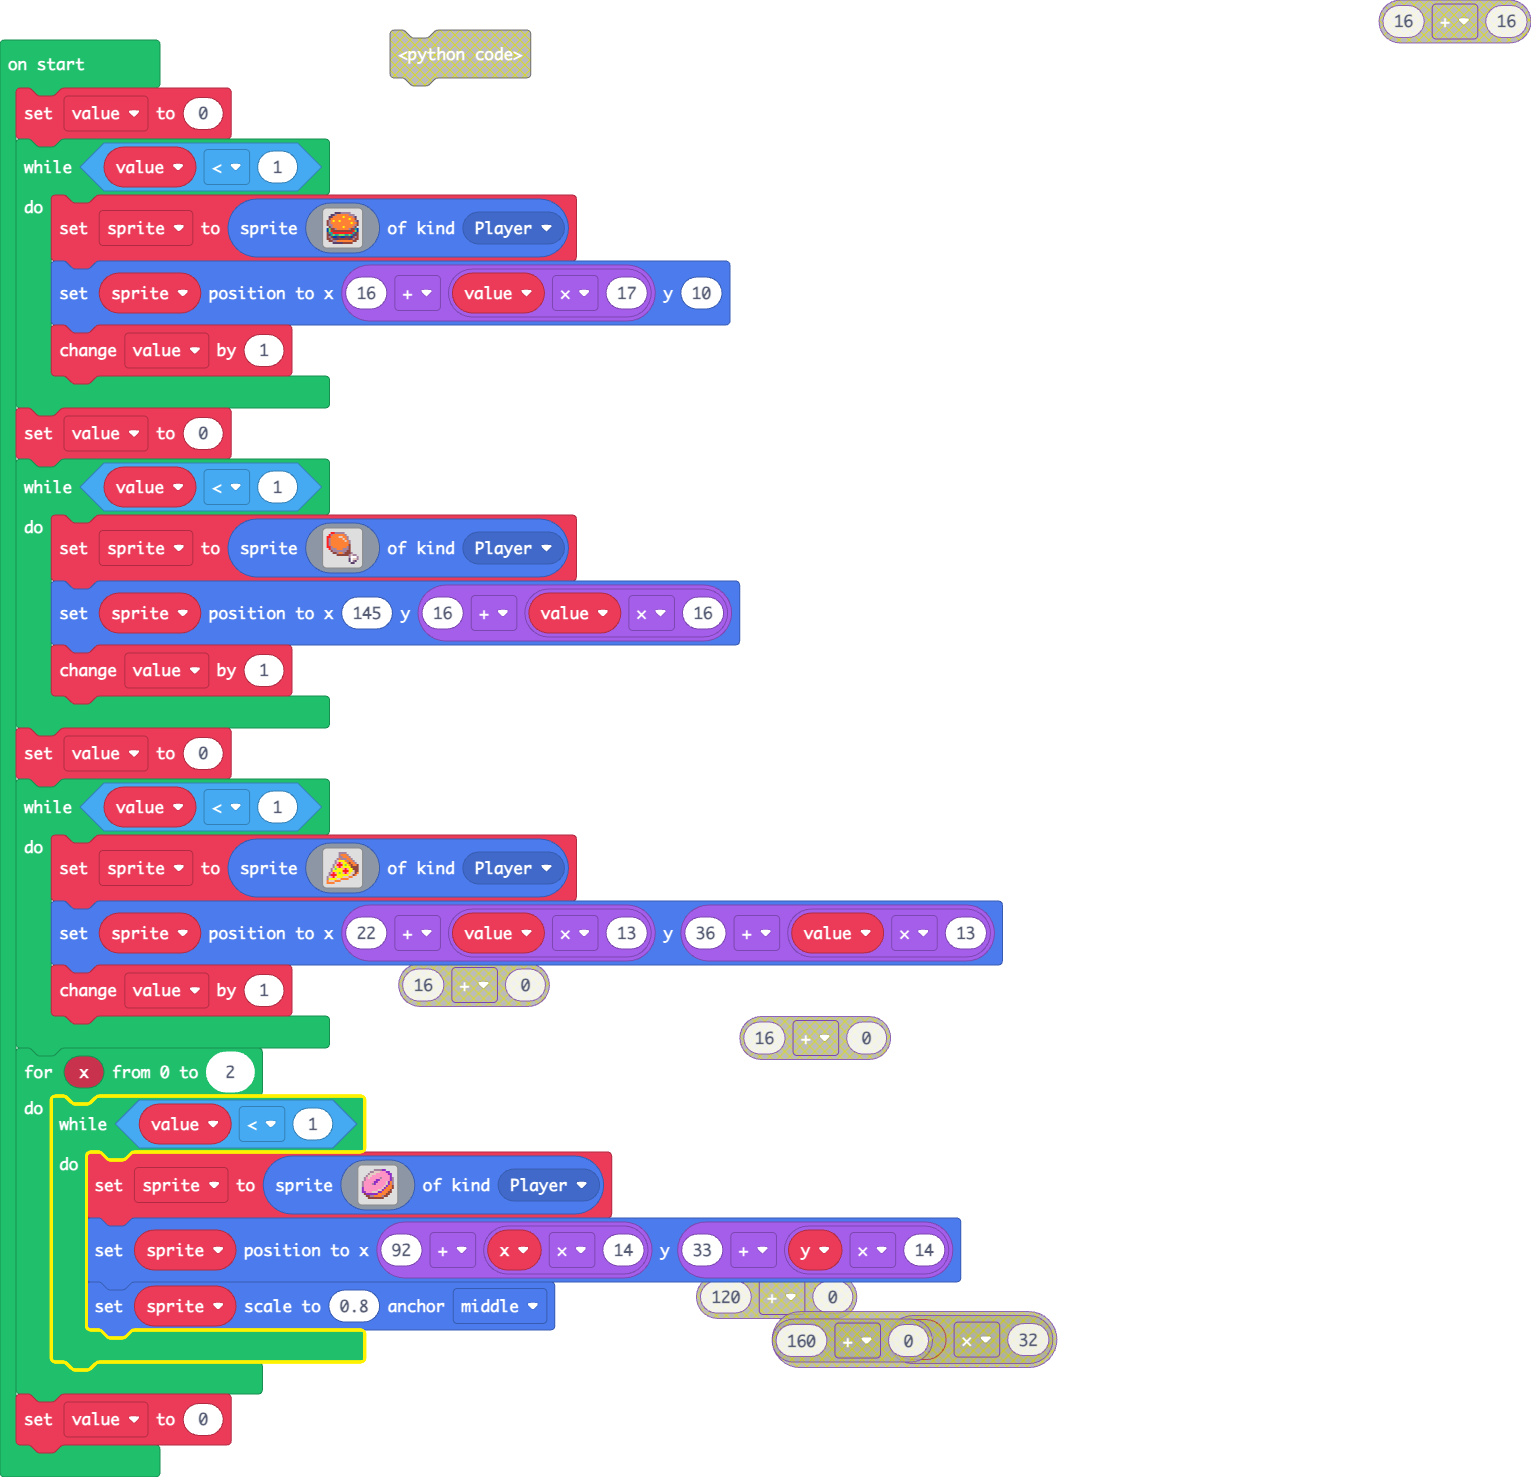
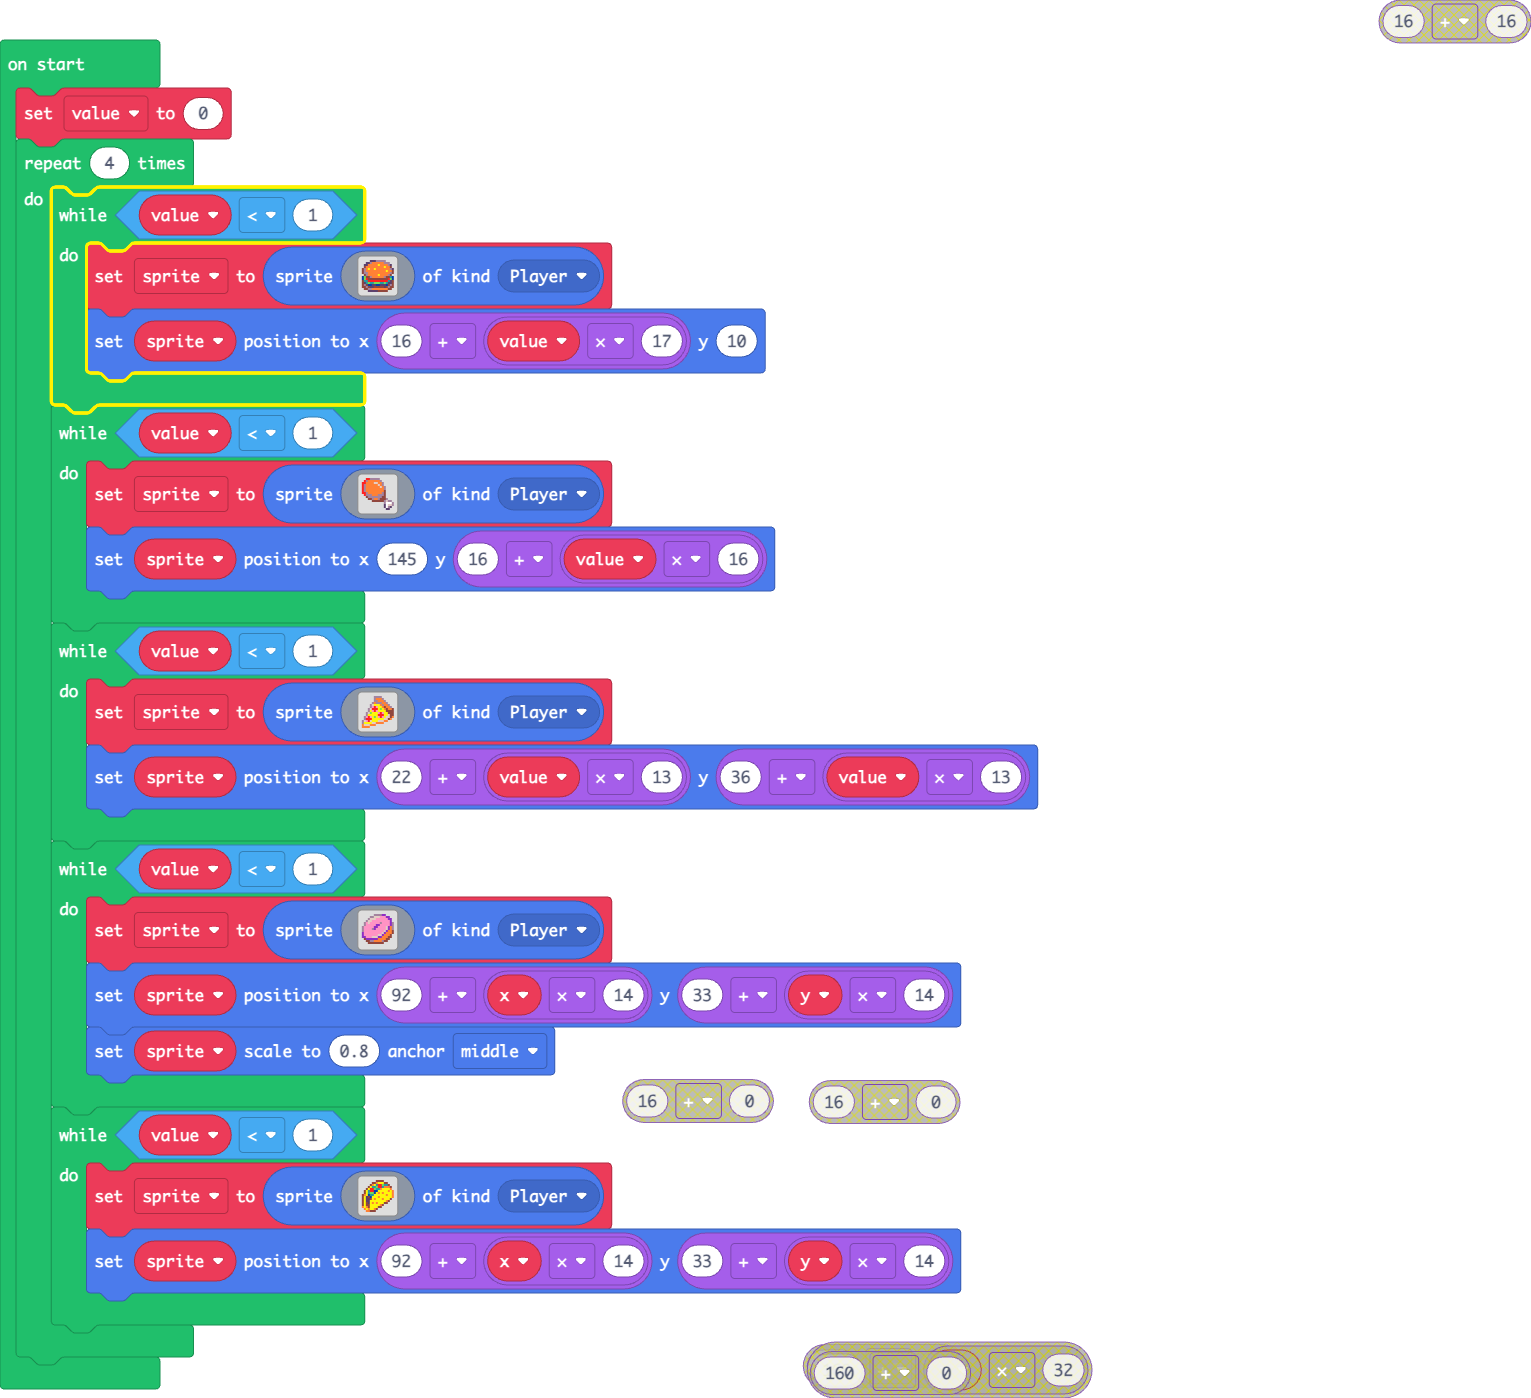
Update main.blocks, main.ts, main.py

diff --git a/main.ts b/main.ts
@@ -1,76 +1,72 @@
 let sprite: Sprite = null
 let value = 0
-while (value < 1) {
-    sprite = sprites.create(img`
-        . . . . c c c b b b b b . . . . 
-        . . c c b 4 4 4 4 4 4 b b b . . 
-        . c c 4 4 4 4 4 5 4 4 4 4 b c . 
-        . e 4 4 4 4 4 4 4 4 4 5 4 4 e . 
-        e b 4 5 4 4 5 4 4 4 4 4 4 4 b c 
-        e b 4 4 4 4 4 4 4 4 4 4 5 4 4 e 
-        e b b 4 4 4 4 4 4 4 4 4 4 4 b e 
-        . e b 4 4 4 4 4 5 4 4 4 4 b e . 
-        8 7 e e b 4 4 4 4 4 4 b e e 6 8 
-        8 7 2 e e e e e e e e e e 2 7 8 
-        e 6 6 2 2 2 2 2 2 2 2 2 2 6 c e 
-        e c 6 7 6 6 7 7 7 6 6 7 6 c c e 
-        e b e 8 8 c c 8 8 c c c 8 e b e 
-        e e b e c c e e e e e c e b e e 
-        . e e b b 4 4 4 4 4 4 4 4 e e . 
-        . . . c c c c c e e e e e . . . 
-        `, SpriteKind.Player)
-    sprite.setPosition(16 + value * 17, 10)
-    value += 1
-}
-value = 0
-while (value < 1) {
-    sprite = sprites.create(img`
-        . . 2 2 b b b b b . . . . . . . 
-        . 2 b 4 4 4 4 4 4 b . . . . . . 
-        2 2 4 4 4 4 d d 4 4 b . . . . . 
-        2 b 4 4 4 4 4 4 d 4 b . . . . . 
-        2 b 4 4 4 4 4 4 4 d 4 b . . . . 
-        2 b 4 4 4 4 4 4 4 4 4 b . . . . 
-        2 b 4 4 4 4 4 4 4 4 4 e . . . . 
-        2 2 b 4 4 4 4 4 4 4 b e . . . . 
-        . 2 b b b 4 4 4 b b b e . . . . 
-        . . e b b b b b b b e e . . . . 
-        . . . e e b 4 4 b e e e b . . . 
-        . . . . . e e e e e e b d b b . 
-        . . . . . . . . . . . b 1 1 1 b 
-        . . . . . . . . . . . c 1 d d b 
-        . . . . . . . . . . . c 1 b c . 
-        . . . . . . . . . . . . c c . . 
-        `, SpriteKind.Player)
-    sprite.setPosition(145, 16 + value * 16)
-    value += 1
-}
-value = 0
-while (value < 1) {
-    sprite = sprites.create(img`
-        . . . . . . b b b b . . . . . . 
-        . . . . . . b 4 4 4 b . . . . . 
-        . . . . . . b b 4 4 4 b . . . . 
-        . . . . . b 4 b b b 4 4 b . . . 
-        . . . . b d 5 5 5 4 b 4 4 b . . 
-        . . . . b 3 2 3 5 5 4 e 4 4 b . 
-        . . . b d 2 2 2 5 7 5 4 e 4 4 e 
-        . . . b 5 3 2 3 5 5 5 5 e e e e 
-        . . b d 7 5 5 5 3 2 3 5 5 e e e 
-        . . b 5 5 5 5 5 2 2 2 5 5 d e e 
-        . b 3 2 3 5 7 5 3 2 3 5 d d e 4 
-        . b 2 2 2 5 5 5 5 5 5 d d e 4 . 
-        b d 3 2 d 5 5 5 d d d 4 4 . . . 
-        b 5 5 5 5 d d 4 4 4 4 . . . . . 
-        4 d d d 4 4 4 . . . . . . . . . 
-        4 4 4 4 . . . . . . . . . . . . 
-        `, SpriteKind.Player)
-    sprite.setPosition(22 + value * 13, 36 + value * 13)
-    value += 1
-}
-for (let x = 0; x <= 2; x++) {
+for (let index = 0; index < 4; index++) {
+    let y = 0
+    let x = 0
     while (value < 1) {
-        let y = 0
+        sprite = sprites.create(img`
+            . . . . c c c b b b b b . . . . 
+            . . c c b 4 4 4 4 4 4 b b b . . 
+            . c c 4 4 4 4 4 5 4 4 4 4 b c . 
+            . e 4 4 4 4 4 4 4 4 4 5 4 4 e . 
+            e b 4 5 4 4 5 4 4 4 4 4 4 4 b c 
+            e b 4 4 4 4 4 4 4 4 4 4 5 4 4 e 
+            e b b 4 4 4 4 4 4 4 4 4 4 4 b e 
+            . e b 4 4 4 4 4 5 4 4 4 4 b e . 
+            8 7 e e b 4 4 4 4 4 4 b e e 6 8 
+            8 7 2 e e e e e e e e e e 2 7 8 
+            e 6 6 2 2 2 2 2 2 2 2 2 2 6 c e 
+            e c 6 7 6 6 7 7 7 6 6 7 6 c c e 
+            e b e 8 8 c c 8 8 c c c 8 e b e 
+            e e b e c c e e e e e c e b e e 
+            . e e b b 4 4 4 4 4 4 4 4 e e . 
+            . . . c c c c c e e e e e . . . 
+            `, SpriteKind.Player)
+        sprite.setPosition(16 + value * 17, 10)
+    }
+    while (value < 1) {
+        sprite = sprites.create(img`
+            . . 2 2 b b b b b . . . . . . . 
+            . 2 b 4 4 4 4 4 4 b . . . . . . 
+            2 2 4 4 4 4 d d 4 4 b . . . . . 
+            2 b 4 4 4 4 4 4 d 4 b . . . . . 
+            2 b 4 4 4 4 4 4 4 d 4 b . . . . 
+            2 b 4 4 4 4 4 4 4 4 4 b . . . . 
+            2 b 4 4 4 4 4 4 4 4 4 e . . . . 
+            2 2 b 4 4 4 4 4 4 4 b e . . . . 
+            . 2 b b b 4 4 4 b b b e . . . . 
+            . . e b b b b b b b e e . . . . 
+            . . . e e b 4 4 b e e e b . . . 
+            . . . . . e e e e e e b d b b . 
+            . . . . . . . . . . . b 1 1 1 b 
+            . . . . . . . . . . . c 1 d d b 
+            . . . . . . . . . . . c 1 b c . 
+            . . . . . . . . . . . . c c . . 
+            `, SpriteKind.Player)
+        sprite.setPosition(145, 16 + value * 16)
+    }
+    while (value < 1) {
+        sprite = sprites.create(img`
+            . . . . . . b b b b . . . . . . 
+            . . . . . . b 4 4 4 b . . . . . 
+            . . . . . . b b 4 4 4 b . . . . 
+            . . . . . b 4 b b b 4 4 b . . . 
+            . . . . b d 5 5 5 4 b 4 4 b . . 
+            . . . . b 3 2 3 5 5 4 e 4 4 b . 
+            . . . b d 2 2 2 5 7 5 4 e 4 4 e 
+            . . . b 5 3 2 3 5 5 5 5 e e e e 
+            . . b d 7 5 5 5 3 2 3 5 5 e e e 
+            . . b 5 5 5 5 5 2 2 2 5 5 d e e 
+            . b 3 2 3 5 7 5 3 2 3 5 d d e 4 
+            . b 2 2 2 5 5 5 5 5 5 d d e 4 . 
+            b d 3 2 d 5 5 5 d d d 4 4 . . . 
+            b 5 5 5 5 d d 4 4 4 4 . . . . . 
+            4 d d d 4 4 4 . . . . . . . . . 
+            4 4 4 4 . . . . . . . . . . . . 
+            `, SpriteKind.Player)
+        sprite.setPosition(22 + value * 13, 36 + value * 13)
+    }
+    while (value < 1) {
         sprite = sprites.create(img`
             . . . . . . b b b b a a . . . . 
             . . . . b b d d d 3 3 3 a a . . 
@@ -92,5 +88,25 @@ for (let x = 0; x <= 2; x++) {
         sprite.setPosition(92 + x * 14, 33 + y * 14)
         sprite.setScale(0.8, ScaleAnchor.Middle)
     }
+    while (value < 1) {
+        sprite = sprites.create(img`
+            . . . . . . . e e e e . . . . . 
+            . . . . . e e 4 5 5 5 e e . . . 
+            . . . . e 4 5 6 2 2 7 6 6 e . . 
+            . . . e 5 6 6 7 2 2 6 4 4 4 e . 
+            . . e 5 2 2 7 6 6 4 5 5 5 5 4 . 
+            . e 5 6 2 2 8 8 5 5 5 5 5 4 5 4 
+            . e 5 6 7 7 8 5 4 5 4 5 5 5 5 4 
+            e 4 5 8 6 6 5 5 5 5 5 5 4 5 5 4 
+            e 5 c e 8 5 5 5 4 5 5 5 5 5 5 4 
+            e 5 c c e 5 4 5 5 5 4 5 5 5 e . 
+            e 5 c c 5 5 5 5 5 5 5 5 4 e . . 
+            e 5 e c 5 4 5 4 5 5 5 e e . . . 
+            e 5 e e 5 5 5 5 5 4 e . . . . . 
+            4 5 4 e 5 5 5 5 e e . . . . . . 
+            . 4 5 4 5 5 4 e . . . . . . . . 
+            . . 4 4 e e e . . . . . . . . . 
+            `, SpriteKind.Player)
+        sprite.setPosition(92 + x * 14, 33 + y * 14)
+    }
 }
-value = 0

diff --git a/main.py b/main.py
@@ -1,5 +1,8 @@
-i = 0
-while i < 5:
+y = 0
+x = 0
+sprite: Sprite = None
+value = 0
+while value < 1:
     sprite = sprites.create(img("""
             . . . . c c c b b b b b . . . . 
                     . . c c b 4 4 4 4 4 4 b b b . . 
@@ -19,10 +22,10 @@ while i < 5:
                     . . . c c c c c e e e e e . . .
         """),
         SpriteKind.player)
-    sprite.set_position(16 + i * 17, 10)
-    i += 1
-i = 0
-while i < 5:
+    sprite.set_position(16 + value * 17, 10)
+    value += 1
+value = 0
+while value < 1:
     sprite = sprites.create(img("""
             . . 2 2 b b b b b . . . . . . . 
                     . 2 b 4 4 4 4 4 4 b . . . . . . 
@@ -42,10 +45,10 @@ while i < 5:
                     . . . . . . . . . . . . c c . .
         """),
         SpriteKind.player)
-    sprite.set_position(145, 16 + i * 16)
-    i += 1
-i = 0
-while i < 5:
+    sprite.set_position(145, 16 + value * 16)
+    value += 1
+value = 0
+while value < 1:
     sprite = sprites.create(img("""
             . . . . . . b b b b . . . . . . 
                     . . . . . . b 4 4 4 b . . . . . 
@@ -65,29 +68,50 @@ while i < 5:
                     4 4 4 4 . . . . . . . . . . . .
         """),
         SpriteKind.player)
-    sprite.set_position(22 + i * 13, 36 + i * 13)
-    i += 1
-for y in range(3):
-    for x in range(3):
-        sprite = sprites.create(img("""
-                . . . . . . b b b b a a . . . . 
-                            . . . . b b d d d 3 3 3 a a . . 
-                            . . . b d d d 3 3 3 3 3 3 a a . 
-                            . . b d d 3 3 3 3 3 3 3 3 3 a . 
-                            . b 3 d 3 3 3 3 3 b 3 3 3 3 a b 
-                            . b 3 3 3 3 3 a a 3 3 3 3 3 a b 
-                            b 3 3 3 3 3 a a 3 3 3 3 d a 4 b 
-                            b 3 3 3 3 b a 3 3 3 3 3 d a 4 b 
-                            b 3 3 3 3 3 3 3 3 3 3 d a 4 4 e 
-                            a 3 3 3 3 3 3 3 3 3 d a 4 4 4 e 
-                            a 3 3 3 3 3 3 3 d d a 4 4 4 e . 
-                            a a 3 3 3 d d d a a 4 4 4 e e . 
-                            . e a a a a a a 4 4 4 4 e e . . 
-                            . . e e b b 4 4 4 4 b e e . . . 
-                            . . . e e e e e e e e . . . . . 
-                            . . . . . . . . . . . . . . . .
-            """),
-            SpriteKind.player)
-        sprite.set_position(92 + x * 14, 33 + y * 14)
-        sprite.set_scale(0.8, ScaleAnchor.MIDDLE)
-i = 0
+    sprite.set_position(22 + value * 13, 36 + value * 13)
+    value += 1
+while value < 1:
+    sprite = sprites.create(img("""
+            . . . . . . b b b b a a . . . . 
+                    . . . . b b d d d 3 3 3 a a . . 
+                    . . . b d d d 3 3 3 3 3 3 a a . 
+                    . . b d d 3 3 3 3 3 3 3 3 3 a . 
+                    . b 3 d 3 3 3 3 3 b 3 3 3 3 a b 
+                    . b 3 3 3 3 3 a a 3 3 3 3 3 a b 
+                    b 3 3 3 3 3 a a 3 3 3 3 d a 4 b 
+                    b 3 3 3 3 b a 3 3 3 3 3 d a 4 b 
+                    b 3 3 3 3 3 3 3 3 3 3 d a 4 4 e 
+                    a 3 3 3 3 3 3 3 3 3 d a 4 4 4 e 
+                    a 3 3 3 3 3 3 3 d d a 4 4 4 e . 
+                    a a 3 3 3 d d d a a 4 4 4 e e . 
+                    . e a a a a a a 4 4 4 4 e e . . 
+                    . . e e b b 4 4 4 4 b e e . . . 
+                    . . . e e e e e e e e . . . . . 
+                    . . . . . . . . . . . . . . . .
+        """),
+        SpriteKind.player)
+    sprite.set_position(92 + x * 14, 33 + y * 14)
+    sprite.set_scale(0.8, ScaleAnchor.MIDDLE)
+value = 0
+while value < 1:
+    sprite = sprites.create(img("""
+            . . . . . . . e e e e . . . . . 
+                    . . . . . e e 4 5 5 5 e e . . . 
+                    . . . . e 4 5 6 2 2 7 6 6 e . . 
+                    . . . e 5 6 6 7 2 2 6 4 4 4 e . 
+                    . . e 5 2 2 7 6 6 4 5 5 5 5 4 . 
+                    . e 5 6 2 2 8 8 5 5 5 5 5 4 5 4 
+                    . e 5 6 7 7 8 5 4 5 4 5 5 5 5 4 
+                    e 4 5 8 6 6 5 5 5 5 5 5 4 5 5 4 
+                    e 5 c e 8 5 5 5 4 5 5 5 5 5 5 4 
+                    e 5 c c e 5 4 5 5 5 4 5 5 5 e . 
+                    e 5 c c 5 5 5 5 5 5 5 5 4 e . . 
+                    e 5 e c 5 4 5 4 5 5 5 e e . . . 
+                    e 5 e e 5 5 5 5 5 4 e . . . . . 
+                    4 5 4 e 5 5 5 5 e e . . . . . . 
+                    . 4 5 4 5 5 4 e . . . . . . . . 
+                    . . 4 4 e e e . . . . . . . . .
+        """),
+        SpriteKind.player)
+    sprite.set_position(92 + x * 14, 33 + y * 14)
+    sprite.set_scale(0.8, ScaleAnchor.MIDDLE)
